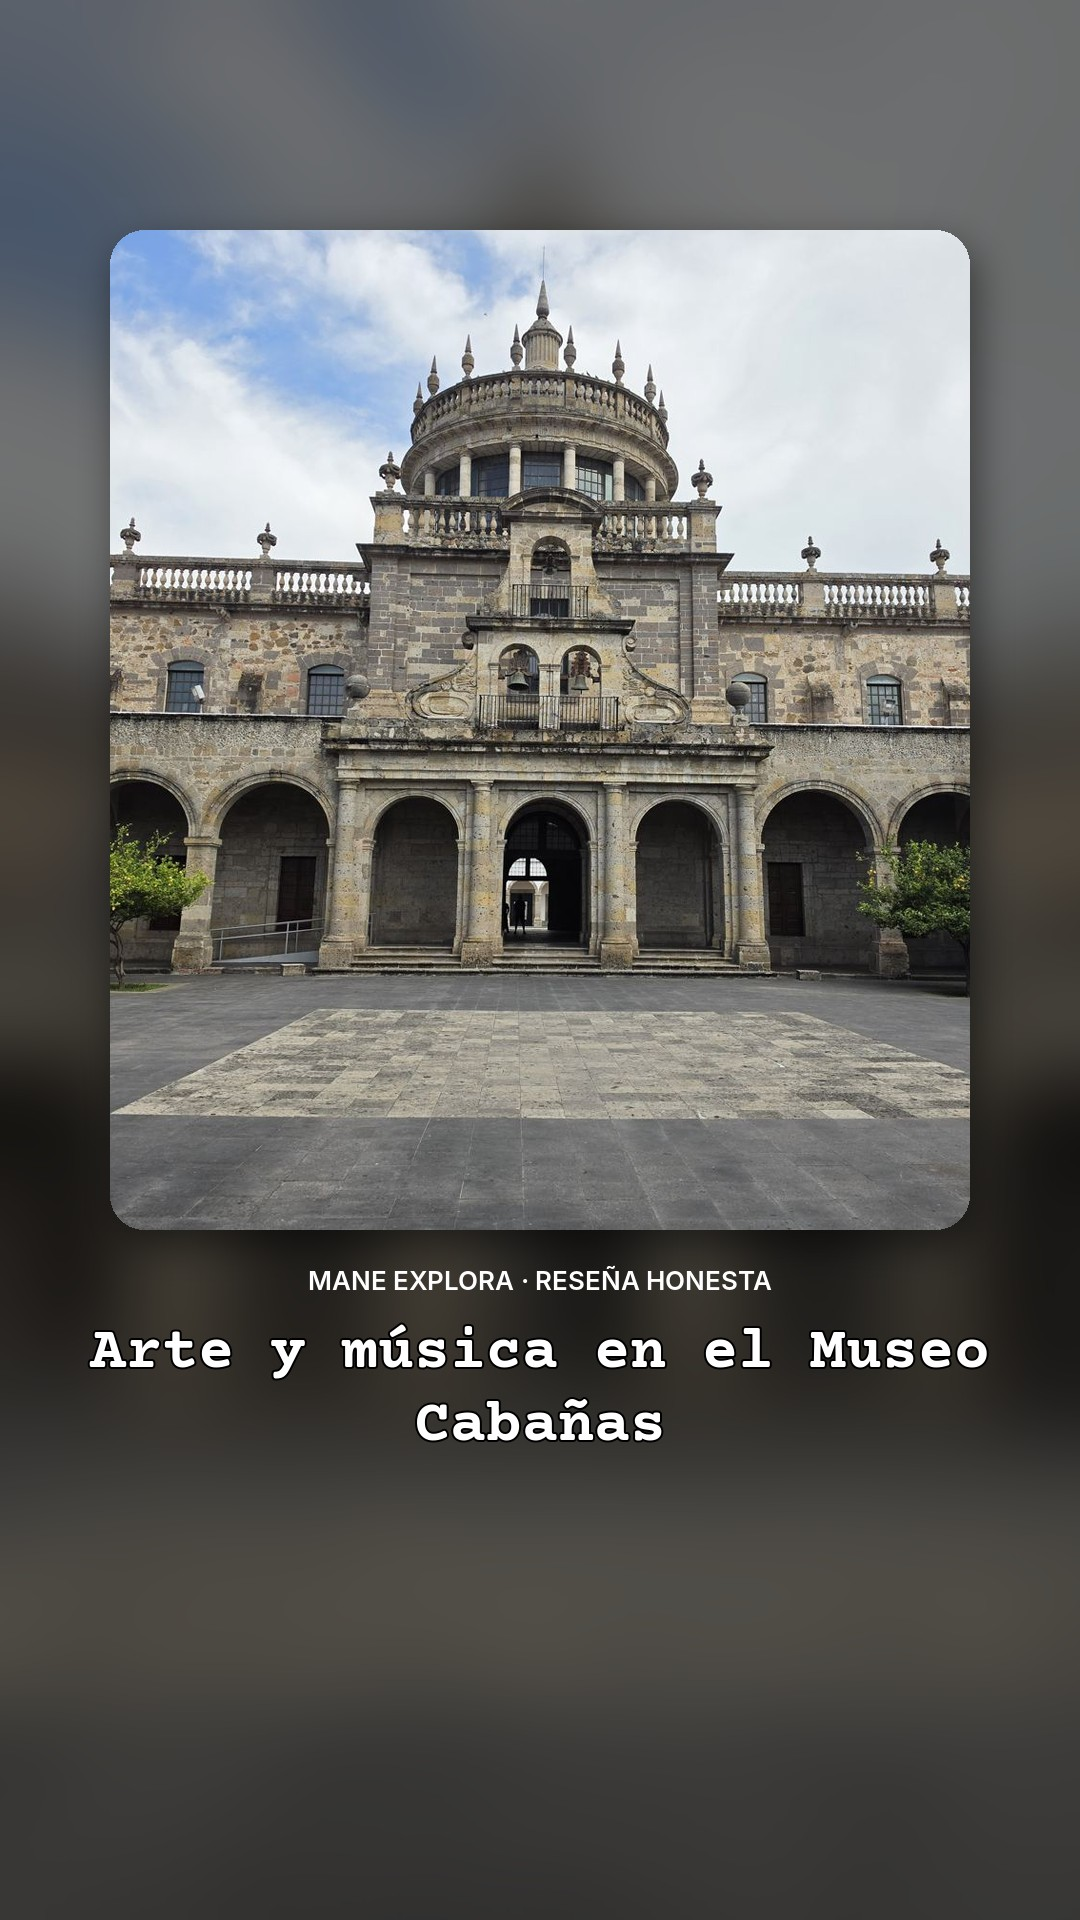
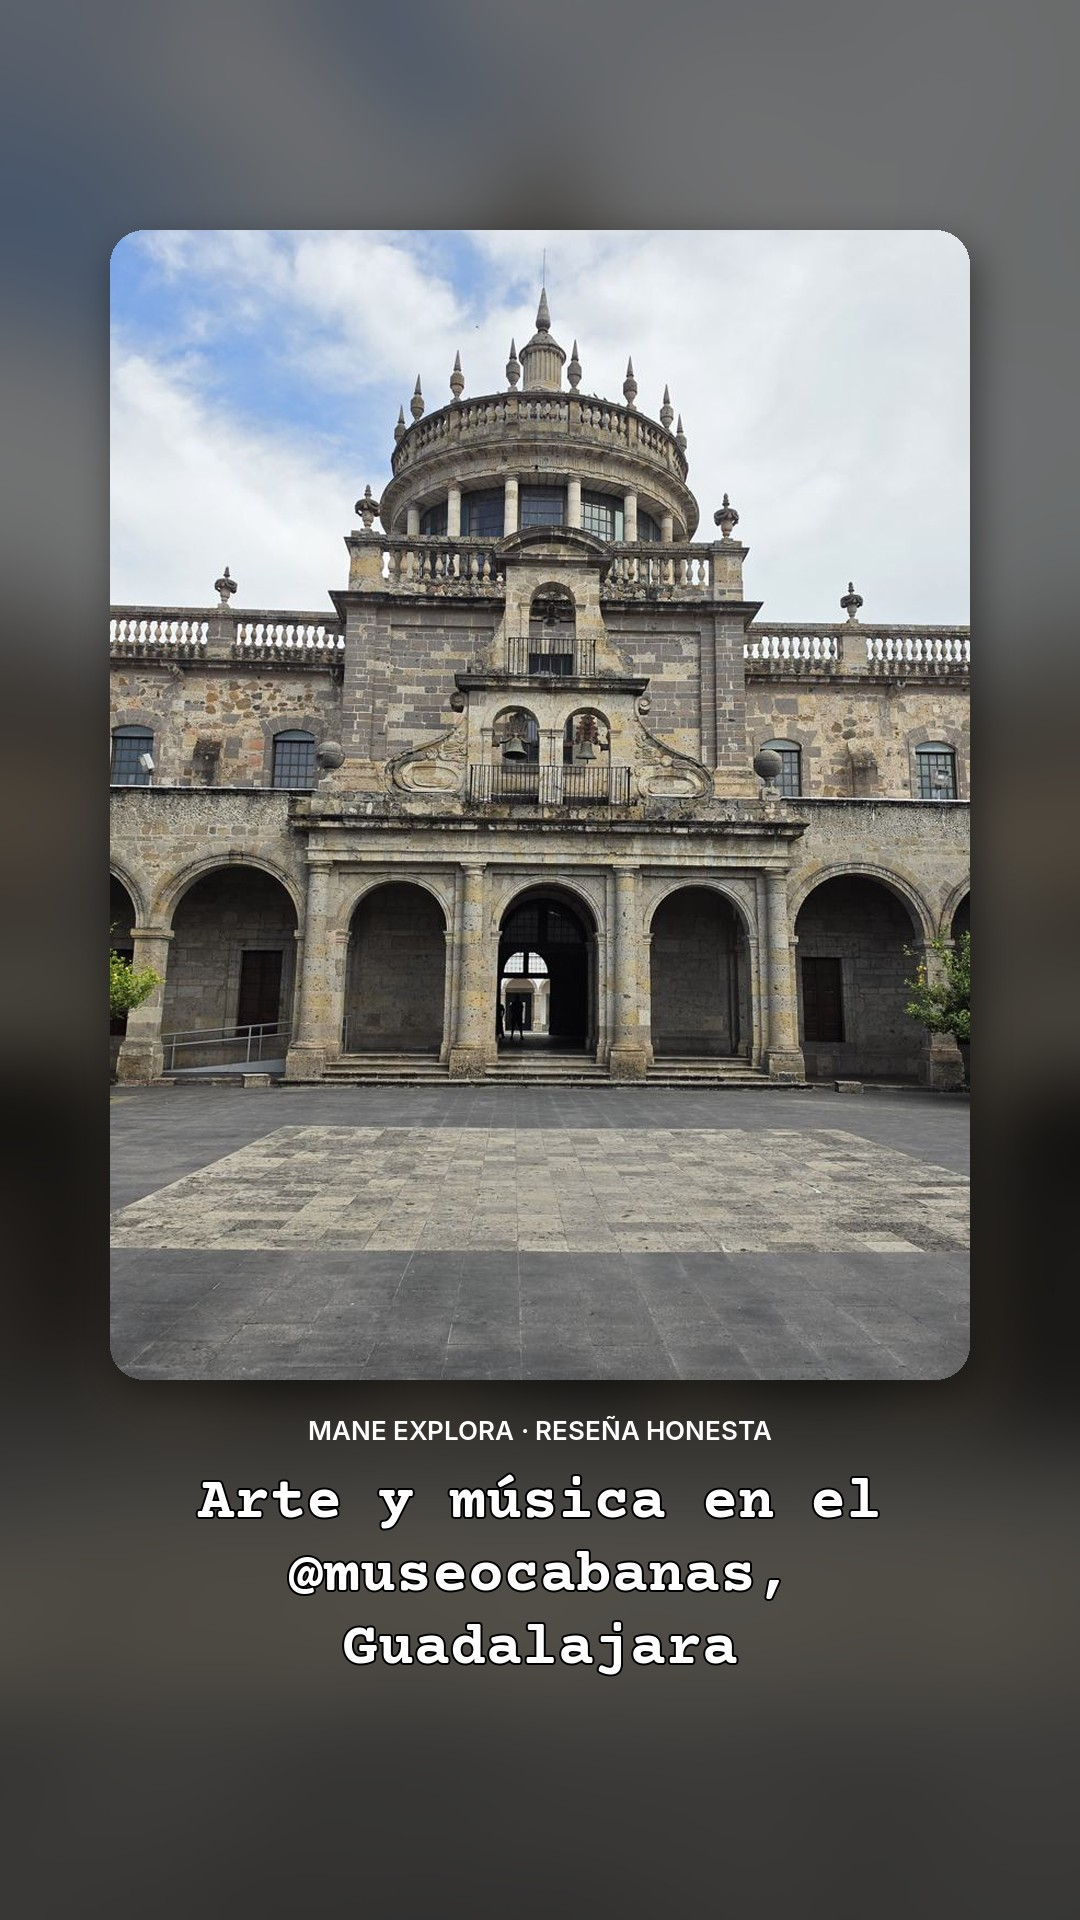
Cabañas: historias sin sticker para publicación automática
Claude-Session: https://claude.ai/code/session_01GhBK2YVmfS443snH6m47yU

diff --git a/content/resenas/museo-cabanas-el-arte-de-la-cancion.md b/content/resenas/museo-cabanas-el-arte-de-la-cancion.md
@@ -15,9 +15,9 @@ duration: "Alrededor de 2 horas y media"
 would_return: "Sí: las exposiciones cambian constantemente"
 paid: true
 stories:
-  - {photo: /img/cabanas/fachada.jpg, text: "Arte y música en el Museo Cabañas", sticker: mention}
-  - {photo: /img/cabanas/cupula-hombre-de-fuego.jpg, text: "¿Conocías El Hombre de Fuego de Orozco?", sticker: poll}
-  - {photo: /img/cabanas/eres.jpg, text: "Reseña completa: precios, tiempo de visita e historia", sticker: link}
+  - {photo: /img/cabanas/fachada.jpg, text: "Arte y música en el @museocabanas, Guadalajara", sticker: none}
+  - {photo: /img/cabanas/cupula-hombre-de-fuego.jpg, text: "El Hombre de Fuego, de Orozco: no te vayas sin verlo", sticker: none}
+  - {photo: /img/cabanas/eres.jpg, text: "Reseña completa en maneexplora.com (link en mi perfil)", sticker: none}
 scores: {"Exposición": 5, "Experiencia y montaje": 5, "Edificio": 5, "Atención y orientación": 2, "Calidad-precio": 4}
 order_title: "Qué no perderse"
 order:
